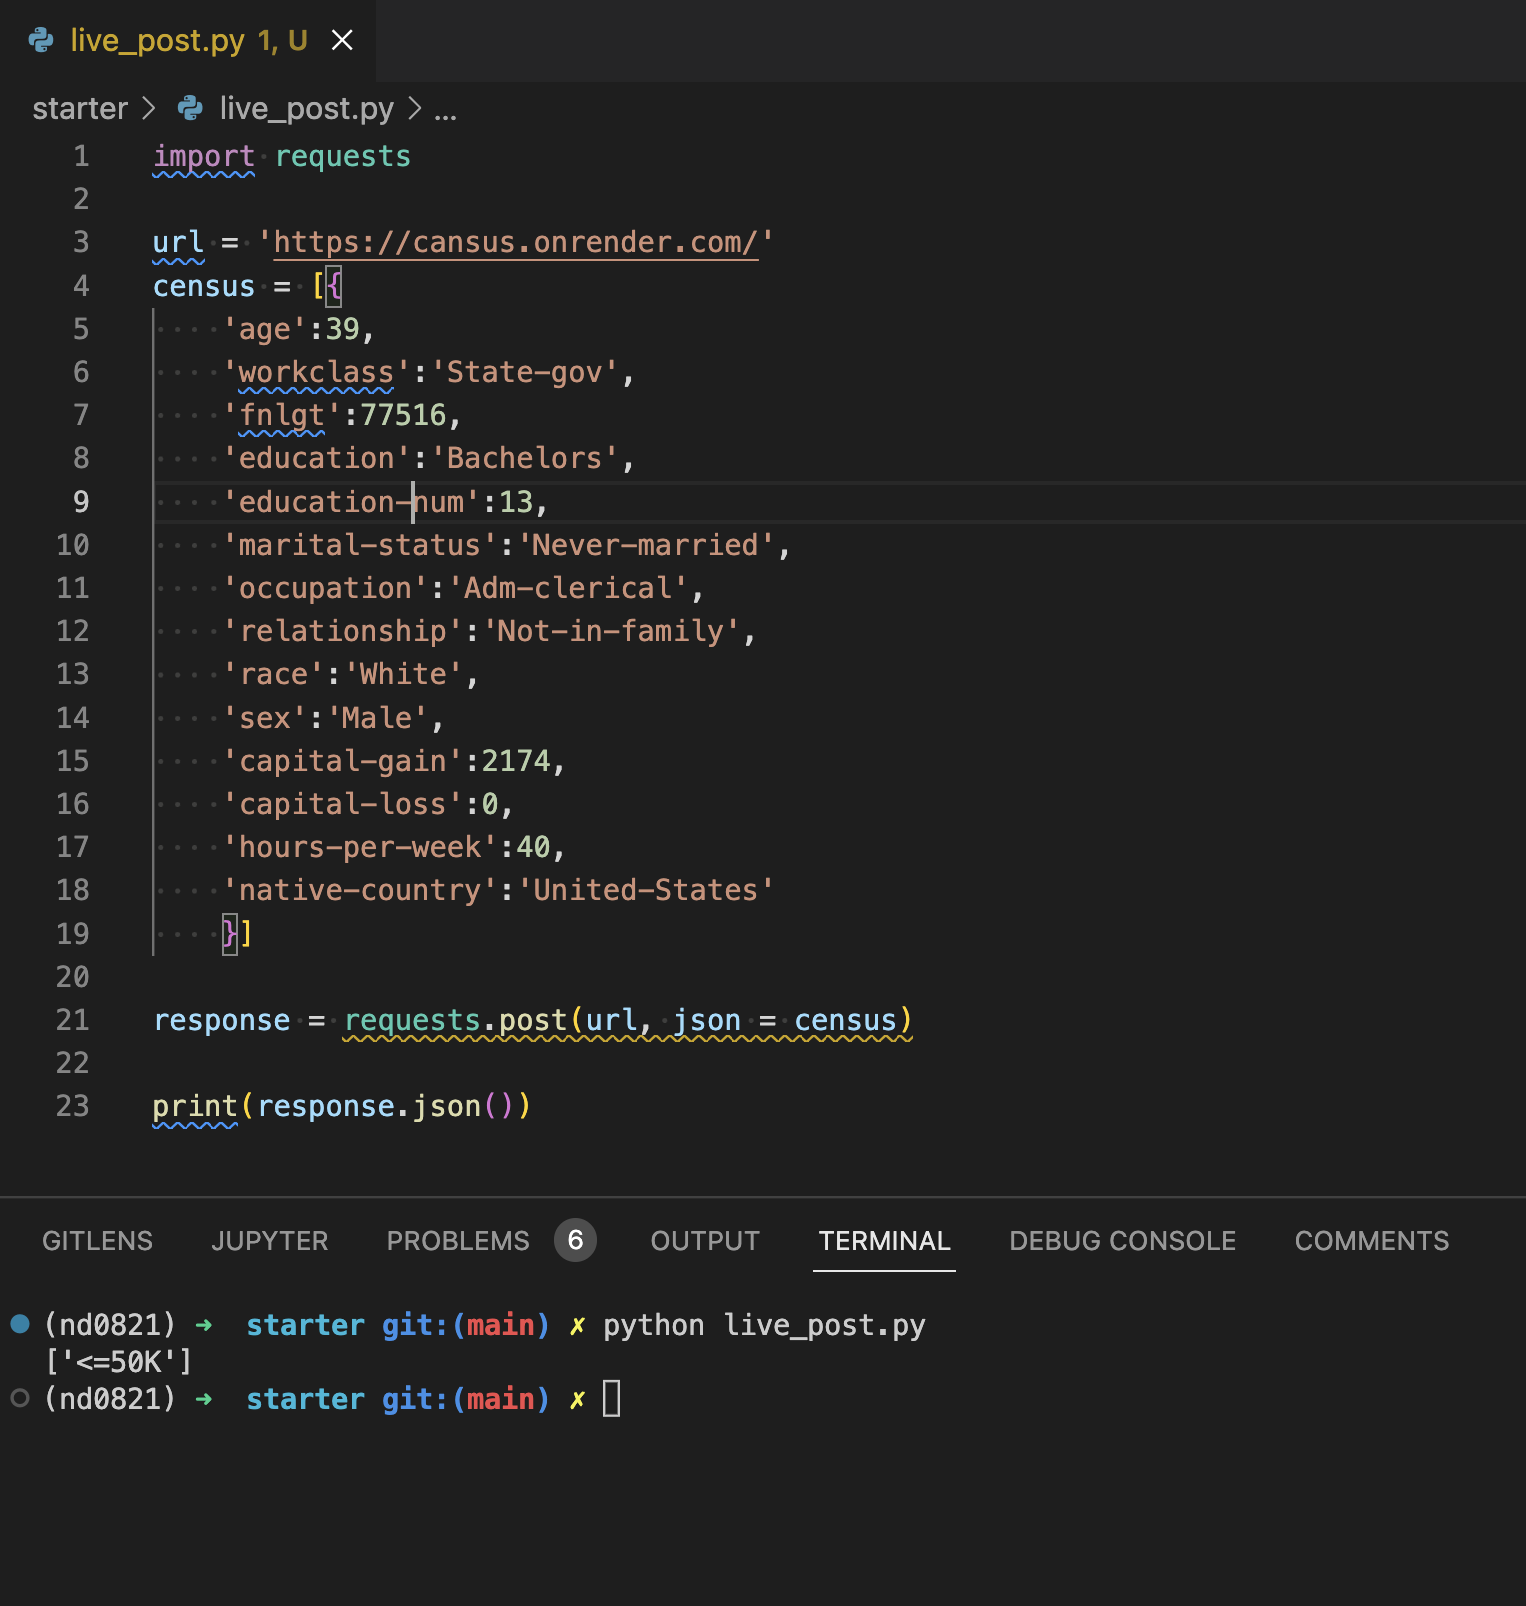
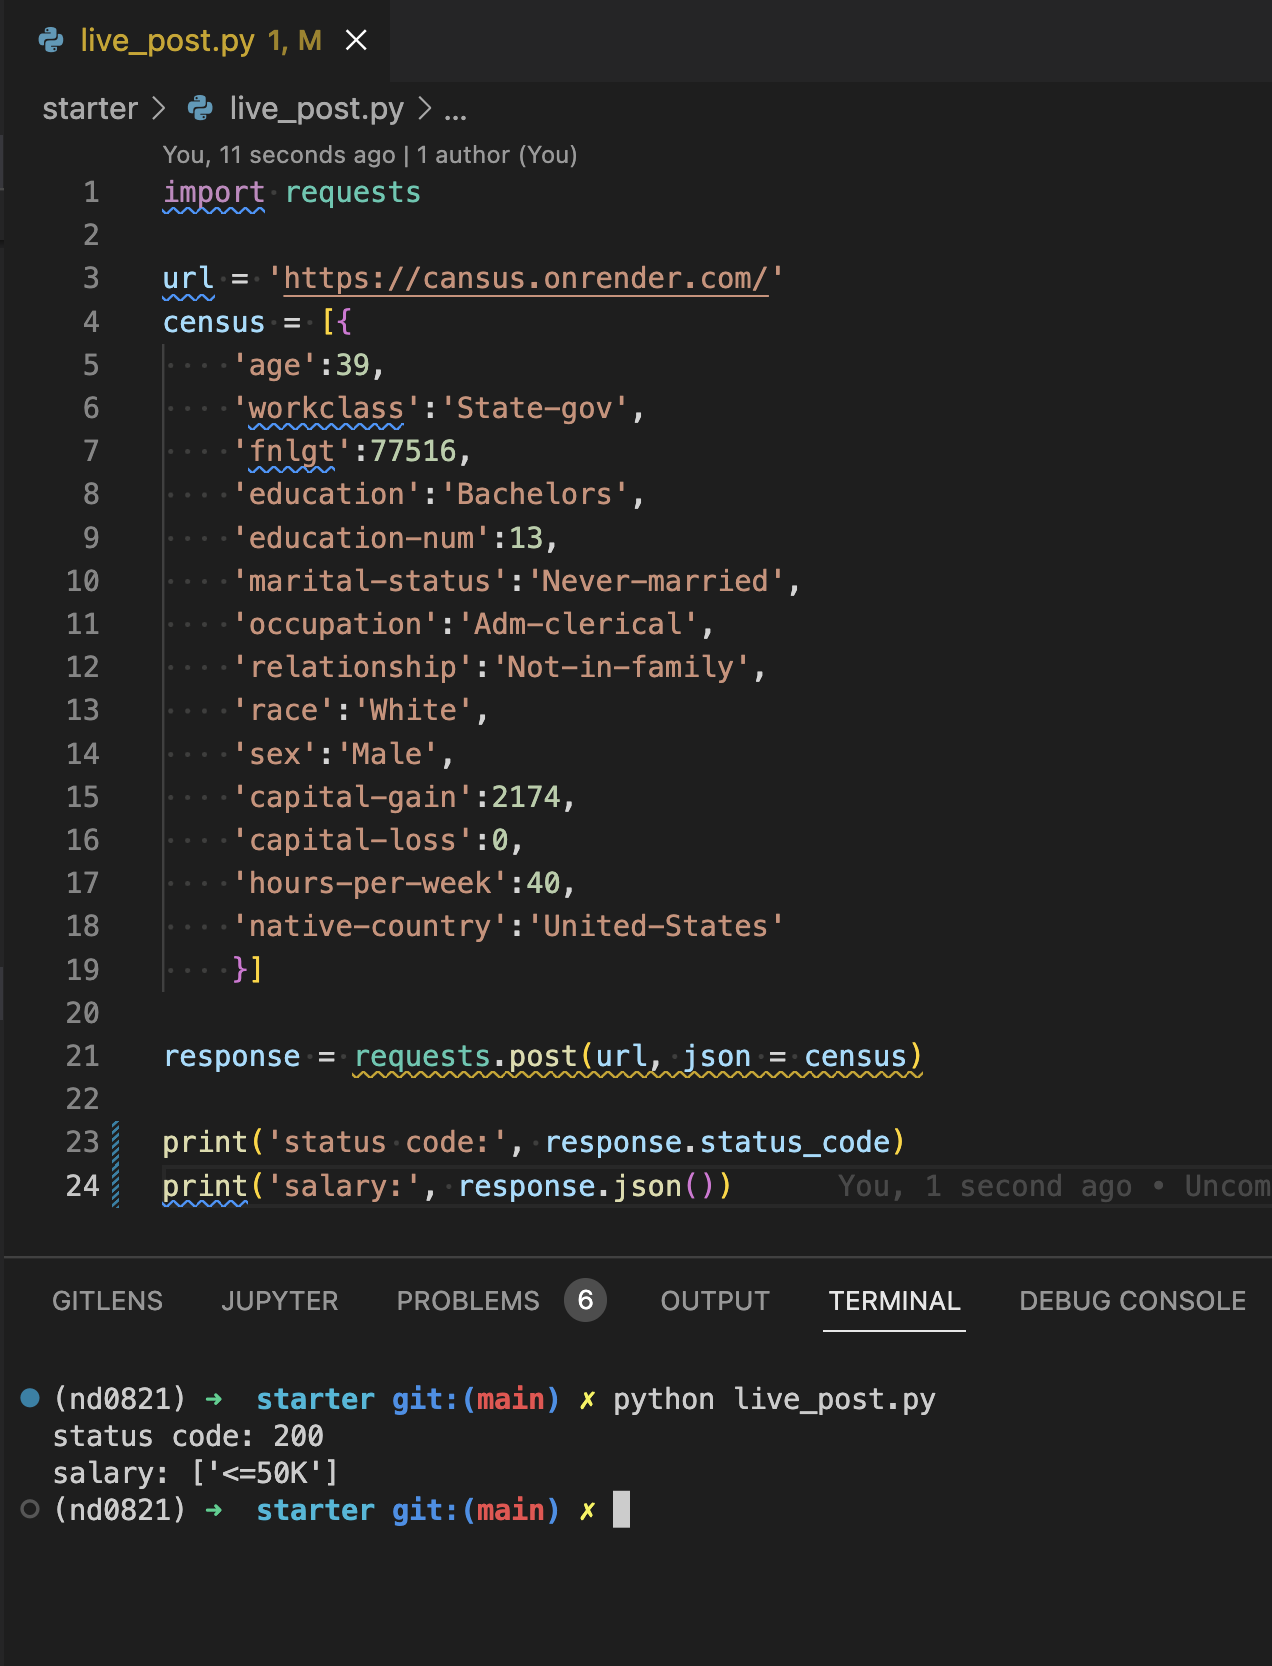
review comments

diff --git a/starter/main.py b/starter/main.py
@@ -68,21 +68,25 @@ app = FastAPI()
 ROOT_DIR = os.path.dirname(os.path.abspath(__file__))
 MODEL_PATH = os.path.join(ROOT_DIR, '.', 'model', 'model.pkl')
 
-with open(MODEL_PATH, 'rb') as file:
-    model = pickle.load(file)
+@app.on_event("startup")
+async def startup_event():
+    ''' load model on startup '''
 
+    global classifier, lb, process_data
+    with open(MODEL_PATH, 'rb') as file:
+        model = pickle.load(file)
 
-def get_classifier(model):
-    ''' get classifier for prediction '''
+    classifier = model['classifier']
     lb = model['lb']
-    data_processor = get_data_processor(
+    process_data = get_process_data(model)
+
+
+def get_process_data(model):
+    ''' get process_data for prediction '''
+    return get_data_processor(
         cat_features=model['cat_features'],
         encoder=model['encoder'],
-        lb=lb)
-    return model['classifier'], data_processor, lb
-
-
-classifier, process_data, lb = get_classifier(model)
+        lb=model['lb'])
 
 
 @app.get("/")
@@ -107,6 +111,8 @@ async def predict(data: List[Census]) -> List[Salary]:
     model
         Trained machine learning model.
     """
+
+    global classifier, lb, process_data
 
     df_data = pd.DataFrame(jsonable_encoder(data))
     x_data, _, _, _ = process_data(df_data)

diff --git a/starter/tests/test_main.py b/starter/tests/test_main.py
@@ -2,12 +2,11 @@ from fastapi.testclient import TestClient
 
 from main import app, Census
 
-client = TestClient(app)
-
 
 def test_api_greeting():
     ''' Test greeting endpoint '''
-    result = client.get('/')
+    with TestClient(app) as client:
+        result = client.get('/')
 
     assert result.status_code == 200
     assert result.json() == {'message': 'Hello World!' }
@@ -32,7 +31,8 @@ def test_api_predict_less_or_equal_50K():
         'native-country': 'United-States'
     }]
 
-    result = client.post('/', json=data)
+    with TestClient(app) as client:
+        result = client.post('/', json=data)
 
     assert result.status_code == 200
     assert result.json() == ['<=50K']
@@ -57,7 +57,8 @@ def test_api_predict_greater_50K():
         'native-country': 'United-States'
     }]
 
-    result = client.post('/', json=data)
+    with TestClient(app) as client:
+        result = client.post('/', json=data)
 
     assert result.status_code == 200
     assert result.json() == ['>50K']

diff --git a/starter/live_post.py b/starter/live_post.py
@@ -20,4 +20,5 @@ census = [{
 
 response = requests.post(url, json = census)
 
-print(response.json())
+print('status code:', response.status_code)
+print('salary:', response.json())
